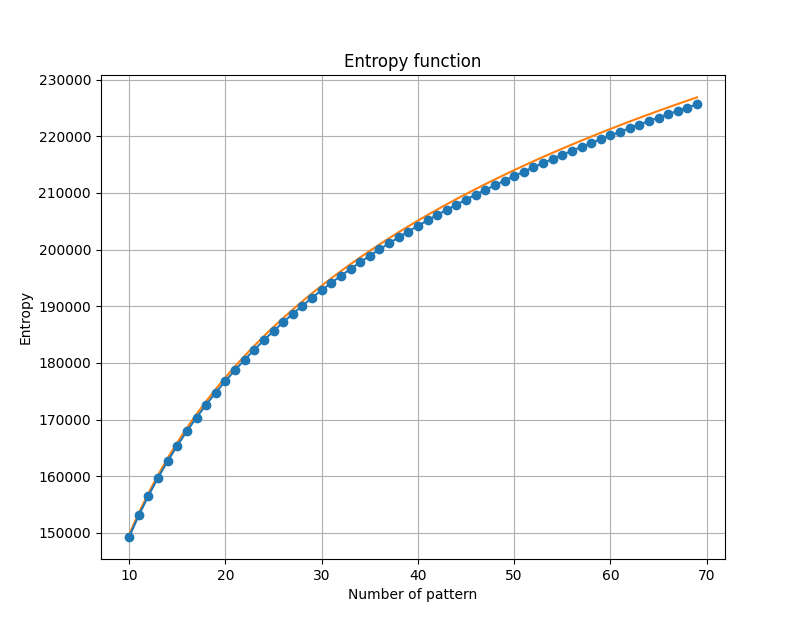
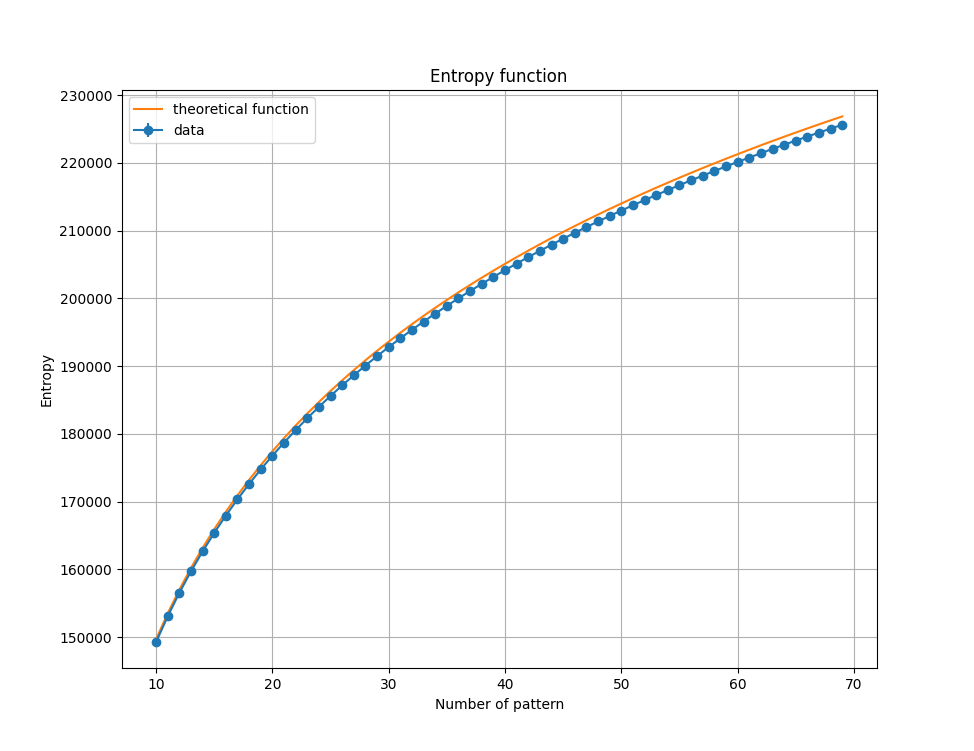
.

diff --git a/hopfield_model/entropy_plot.py b/hopfield_model/entropy_plot.py
@@ -64,10 +64,11 @@ chisq = (((y_average - entropy)/y_error)**2.).sum()
 # Print the fit output.
 print(chisq/5)
 
-plt.errorbar(x_average, y_average,y_error, marker='o')
-plt.plot(p, entropy)
+plt.errorbar(x_average, y_average,y_error, marker='o',label="data")
+plt.plot(p, entropy,label="theoretical function")
 plt.title('Entropy function')
 plt.xlabel('Number of pattern')
 plt.ylabel('Entropy')
 plt.grid(True)
+plt.legend()
 plt.show()
